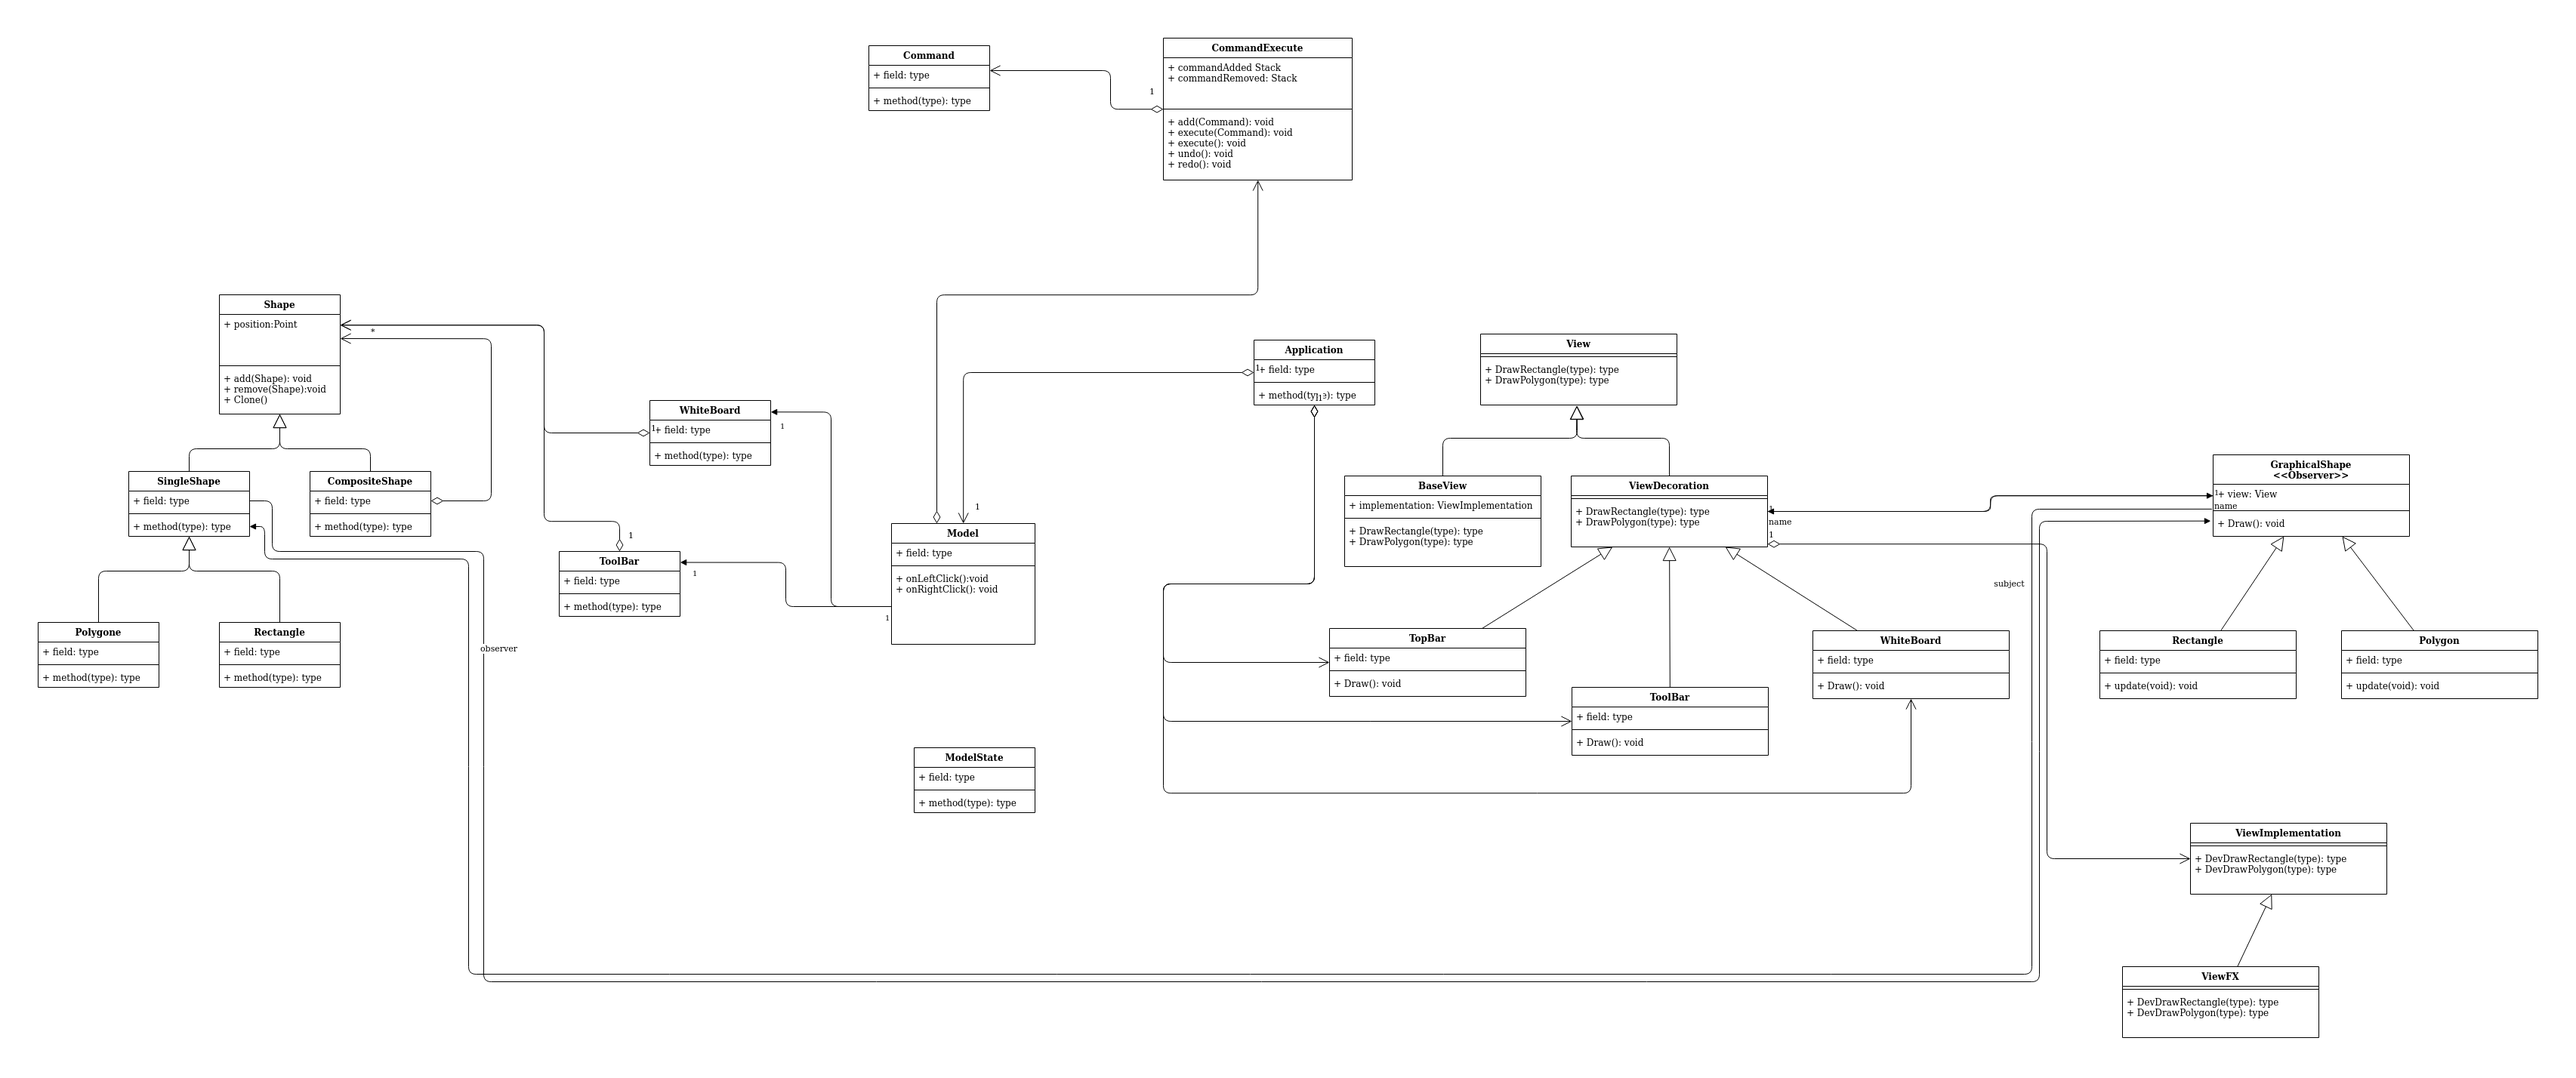
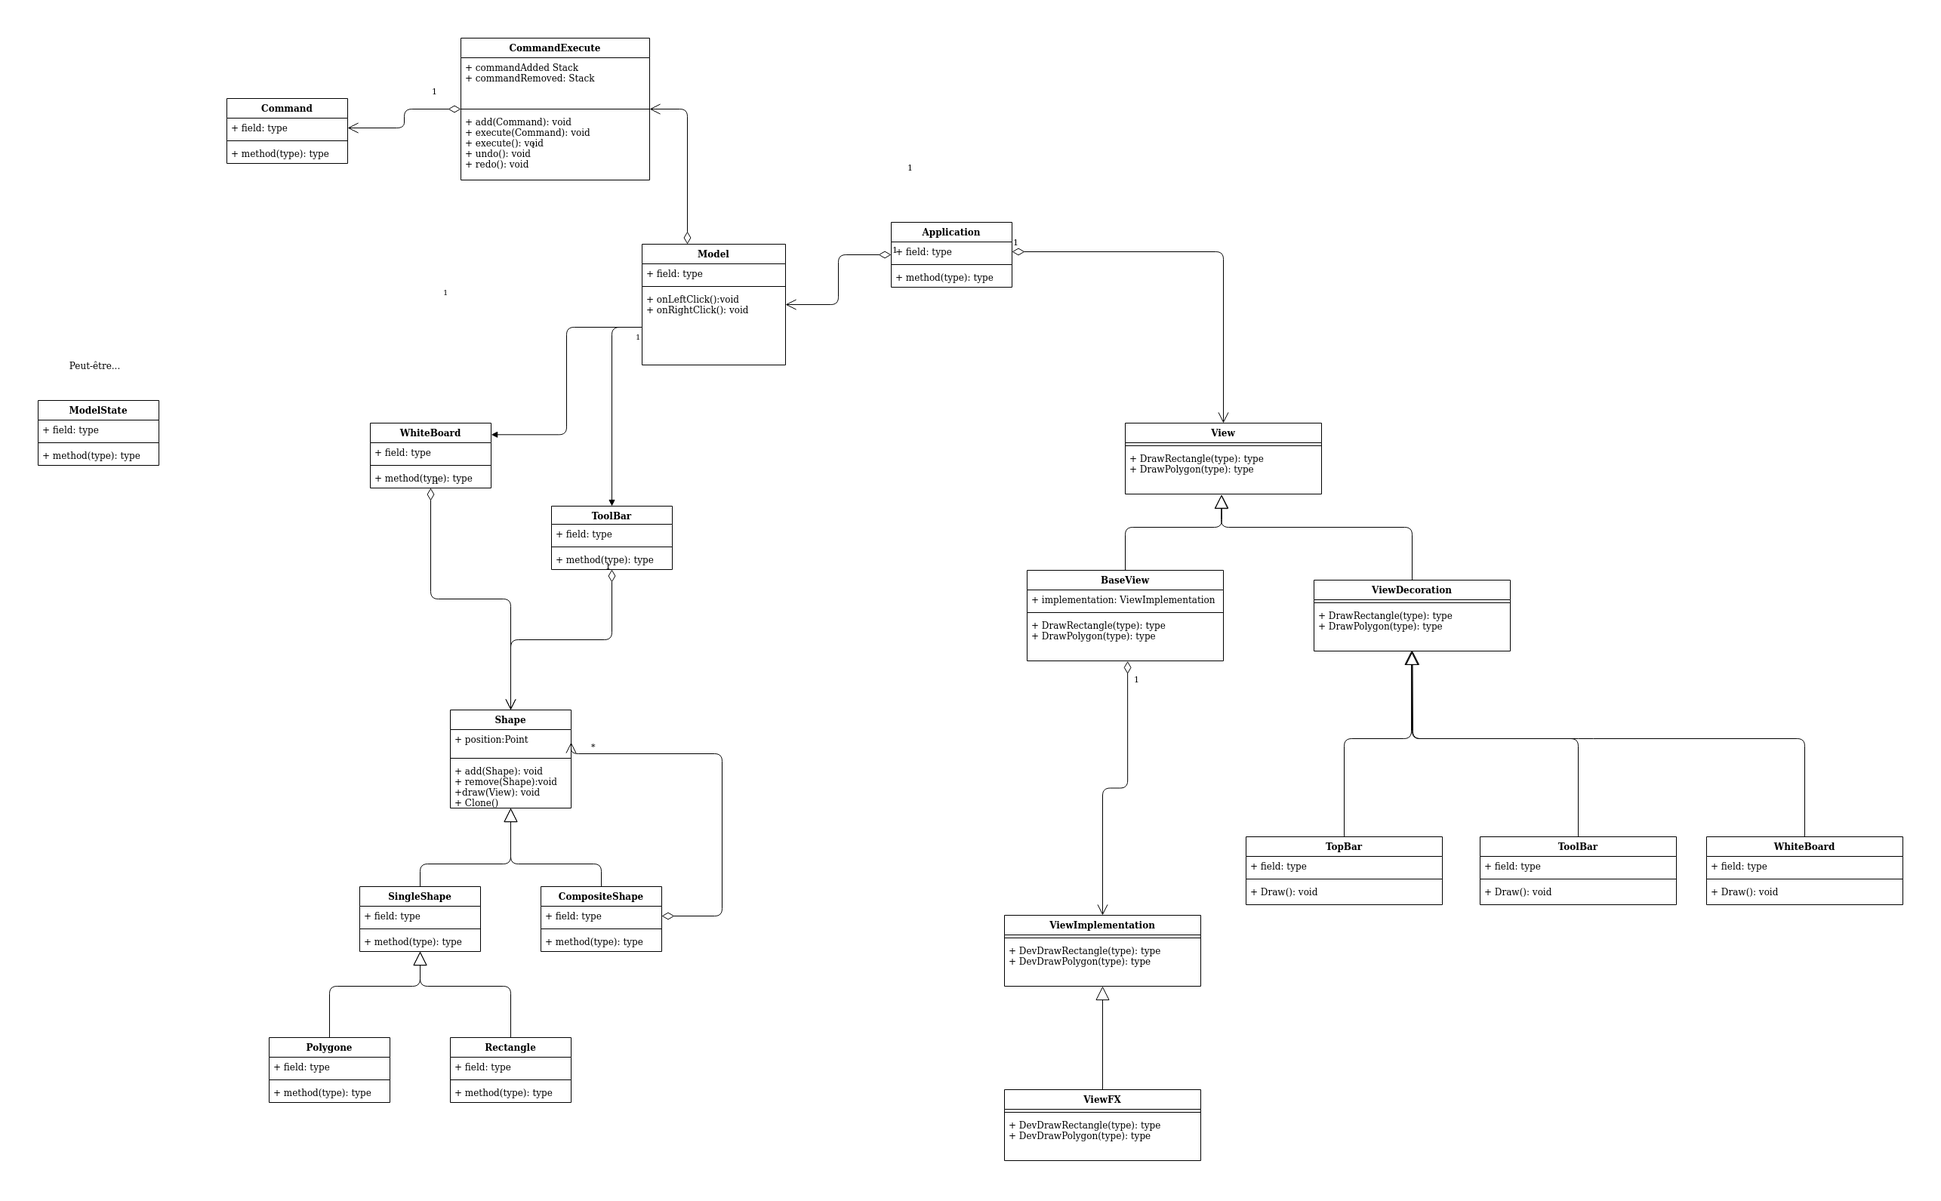
Rewrite view system

diff --git a/src/main/java/application/view/SimpleView.java b/src/main/java/application/view/SimpleView.java
@@ -1,0 +1,24 @@
+package application.view;
+
+public class SimpleView implements View {
+    private ConcreteViewItf implementation;
+
+    public SimpleView(ConcreteViewItf concreteView) {
+        this.implementation = concreteView;
+    }
+
+    @Override
+    public void draw() {
+        // Refresh display ?
+    }
+
+    @Override
+    public void drawRectangle() {
+        this.implementation.devDrawRectangle();
+    }
+
+    @Override
+    public void drawPolygon() {
+        this.implementation.devDrawPolygon();
+    }
+}

diff --git a/src/main/java/application/view/ViewDecorator.java b/src/main/java/application/view/ViewDecorator.java
@@ -1,0 +1,24 @@
+package application.view;
+
+public abstract class ViewDecorator implements View {
+    private View view;
+
+    public ViewDecorator(View view) {
+        this.view = view;
+    }
+
+    @Override
+    public void draw() {
+        this.view.draw();
+    }
+
+    @Override
+    public void drawRectangle() {
+        this.view.drawRectangle();
+    }
+
+    @Override
+    public void drawPolygon() {
+        this.view.drawPolygon();
+    }
+}

diff --git a/src/main/java/application/ui/javafx/UiFx.java b/src/main/java/application/ui/javafx/UiFx.java
@@ -2,14 +2,12 @@ package application.ui.javafx;
 
 import application.model.Model;
 import application.model.shape.SingleShape;
-import application.ui.Ui;
 import javafx.application.Application;
 import javafx.fxml.FXMLLoader;
 import javafx.scene.Scene;
 import javafx.scene.layout.AnchorPane;
 import javafx.stage.Stage;
 
-import java.io.File;
 import java.io.IOException;
 import java.net.URL;
 

diff --git a/src/main/java/application/view/WhiteBoard.java b/src/main/java/application/view/WhiteBoard.java
@@ -1,0 +1,14 @@
+package application.view;
+
+public class WhiteBoard extends ViewDecorator {
+    public WhiteBoard(View view) {
+        super(view);
+    }
+
+    @Override
+    public void draw() {
+        super.draw();
+
+        // Draw big white rectangle
+    }
+}

diff --git a/src/main/java/application/view/ToolBar.java b/src/main/java/application/view/ToolBar.java
@@ -1,0 +1,14 @@
+package application.view;
+
+public class ToolBar extends ViewDecorator {
+    public ToolBar(View view) {
+        super(view);
+    }
+
+    @Override
+    public void draw() {
+        super.draw();
+
+        // Draw toolbar
+    }
+}

diff --git a/src/main/java/application/view/TopBar.java b/src/main/java/application/view/TopBar.java
@@ -1,0 +1,14 @@
+package application.view;
+
+public class TopBar extends ViewDecorator {
+    public TopBar(View view) {
+        super(view);
+    }
+
+    @Override
+    public void draw() {
+        super.draw();
+
+        // draw topBar
+    }
+}

diff --git a/src/main/java/application/Main.java b/src/main/java/application/Main.java
@@ -2,8 +2,6 @@ package application;
 
 import application.model.Model;
 import application.model.shape.Rectangle;
-import application.ui.StaticUi;
-import application.ui.Ui;
 import application.ui.javafx.UiFx;
 
 public class Main {

diff --git a/src/main/java/application/model/shape/Rectangle.java b/src/main/java/application/model/shape/Rectangle.java
@@ -1,7 +1,5 @@
 package application.model.shape;
 
-import application.ui.StaticUi;
-
 public class Rectangle extends SingleShape {
     public Rectangle() {
         StaticUi.getInstance().addRectangleRepresentation(this);

diff --git a/src/main/java/application/model/shape/CompositeShape.java b/src/main/java/application/model/shape/CompositeShape.java
@@ -1,8 +1,5 @@
 package application.model.shape;
 
-import application.ui.Ui;
-import javafx.beans.InvalidationListener;
-
 import java.util.HashSet;
 import java.util.Set;
 

diff --git a/src/main/java/application/view/View.java b/src/main/java/application/view/View.java
@@ -1,0 +1,8 @@
+package application.view;
+
+public interface View {
+    void draw();
+
+    void drawRectangle();
+    void drawPolygon();
+}

diff --git a/src/main/java/application/view/ConcreteViewItf.java b/src/main/java/application/view/ConcreteViewItf.java
@@ -1,0 +1,6 @@
+package application.view;
+
+public interface ConcreteViewItf {
+    void devDrawRectangle();
+    void devDrawPolygon();
+}
